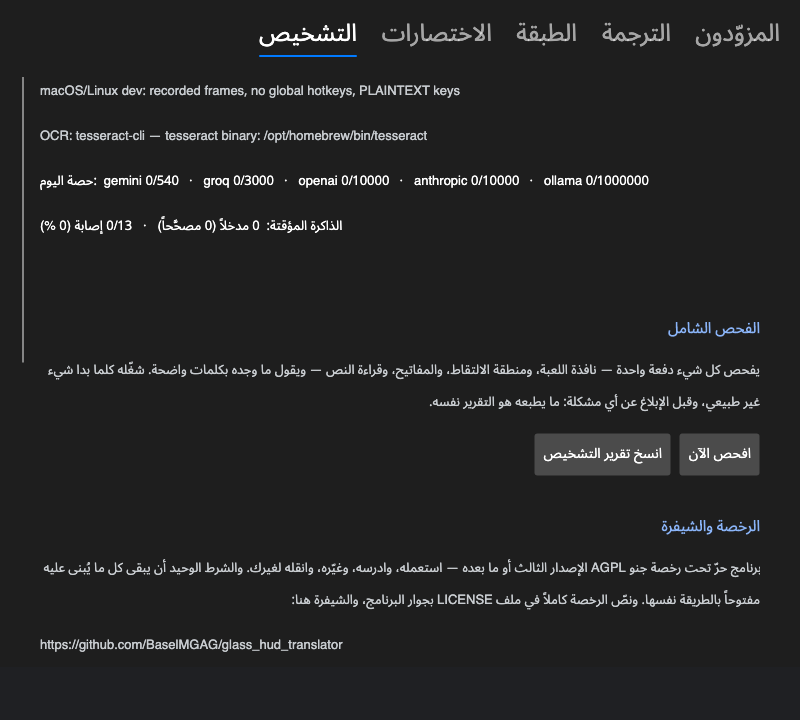
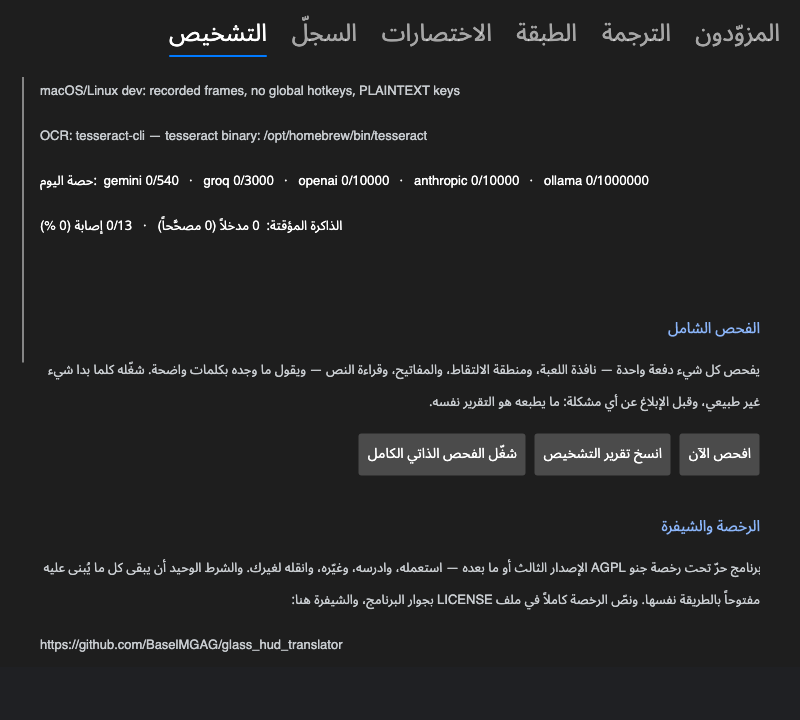
v0.8.0 — changelog, release notes, READMEs and fresh screenshots
The changelog entry is long because the release is: four separate faults
in automatic mode that presented as one symptom, two total capture
outages from one cause, and the "argue with a line" work that was sitting
in Unreleased since v0.7.0.

Every screenshot regenerated from the app's own rendering paths rather
than photographed - --ui-shots for the Settings tabs in both languages,
--toolbar-test for the strip. The History tab had never been in the
documentation at all, and it was writing itself out as settings-tab5.png
because the slug list had not grown with the window.

Changed region(s): [[0.4375, 0.5806, 0.6562, 0.6722], [0.2188, 0.0306, 0.4375, 0.0917]]

diff --git a/CHANGELOG.md b/CHANGELOG.md
@@ -3,11 +3,35 @@
 Notable changes. Started once the app was working end to end, so everything before the first entry
 is "the thing being described in the README".
 
-## Unreleased
+## v0.8.0 — 12 August 2026
 
-Doing something about a bad line, instead of watching it go past.
+Doing something about a bad line instead of watching it go past — and then a week of finding out
+that automatic mode had never really worked, in four different ways, none of which a test on this
+machine could see.
 
 ### Added
+
+- **A second reader, for text the first one cannot make out.** Off by default, and switching it on
+  is a deliberate choice rather than a convenience: it sends a *picture* of part of your screen to a
+  provider, where everything else this app sends is text that was already read on your own machine.
+  When it is on, a frame where words were plainly seen and none of them could be read gets a second
+  opinion from a model that can look at the image. It is asked only when the first reader threw
+  words away — never merely because it was unsure, which sounds like the same thing and is not: an
+  unusual name read *correctly* scores low, and routing exactly those to the reader that is worst at
+  invented vocabulary would be the wrong trade twice over.
+- **The second reading is checked against the first, and dropped if it disagrees too much.** The
+  danger with this kind of reader is specific and worth stating plainly: its mistake is a fluent,
+  well-formed sentence that was never on the screen, where an ordinary misreading is visible
+  nonsense. Fluent wrong Arabic is undetectable to somebody who cannot check it against the English,
+  and it would be saved forever. A genuine correction still looks like the garble it corrects; an
+  invention has no reason to.
+- **The app can now explain itself.** Settings → Diagnostics → *Write a self-test*. It writes a file
+  next to the app saying which windows are open, which one it decided is your game and why, where
+  the capture region landed, what it read there, and one line for every poll of the last two
+  minutes. It exists because the last three rounds of support were diagnosed by guessing, and every
+  question that could not be answered is now a line in it.
+
+### Added — from the "argue with a line" work
 
 - **Translate this line again.** `Ctrl+Shift+G`, the toolbar, or Settings → Translating. Asks for a
   fresh translation of the line on screen, ignoring the saved one — which is the whole point, since
@@ -33,6 +57,65 @@ Doing something about a bad line, instead of watching it go past.
 
 ### Fixed
 
+**Automatic mode, which had four separate faults and looked like one.** Reported as "auto translate
+does not switch to the next sentence", and every step of finding it was a reasonable-looking mistake.
+
+- **It could not tell a finished line from a moving background.** The test for "the text has stopped
+  changing" compared two thumbnails and allowed two cells of 1536 to differ. Measured against a real
+  scene with the sentence completely unchanged: mild foliage moves 3–6 cells, moderate motion 13–18,
+  heavy 46–58 — and one more revealed *word* moves 14–18. So over any game with weather, or an
+  idling character, or a sky, a finished line could never be *declared* finished. It could only run
+  out of time, and the deadline fires mid-animation, so what reached the reader was fragments. Every
+  frame in the project's own test images has a still background and measures exactly zero, which is
+  why every test passed.
+- **The fix could not be a bigger allowance either**, because a revealed word and a moving leaf cost
+  the same handful of cells. The pixels now decide only *when to look*; the words decide what to
+  translate, by being read twice and saying the same thing. That one test throws out a garbled
+  capture (which reads differently every time), throws out a half-typed line (which is a growing
+  prefix), and accepts a finished line whatever is moving behind it.
+- **Video mode then translated nothing at all**, because "the same thing" was set from a
+  measurement taken for a different question. Real subtitles agree with themselves 79–88% of the
+  time, not 90%. Fixed against readings taken off a real screen.
+- **Changing mode needed auto-watch switched off and on again.** New timings only took effect on the
+  next *change*, and the line on screen while you reach for the button is not a change — so the
+  switch appeared to do nothing. It now takes effect at once, without resetting the clock or the
+  request count the session limits are measured against.
+
+**Screen capture stopping for the rest of the session, twice, from the same cause.**
+
+- **Picking a capture region, or translating one thing once, killed capture until the app was
+  restarted.** Both took their own private grab of the screen and let go of it afterwards, which on
+  Windows means letting go of the one the app itself was still using. Nothing failed loudly: capture
+  simply returned nothing from then on, and the app went quiet. The same fault had already been
+  fixed once in the self-test and was written down as a rule; it is now enforced by a test, because
+  a rule in a comment is not a rule.
+- **A capture that fails now says which failure it was.** Three unrelated Windows errors used to
+  arrive as one silent nothing, and the only message the app could produce asked whether the game
+  was in borderless windowed mode — while the diagnostic on the same screen had already confirmed
+  that it was.
+
+**Everything else.**
+
+- **The History tab took the whole app down** the first time it was opened with enough rows to
+  scroll. Long lists recycle their rows, and the recycling handed the template an empty row.
+- **A garbled frame made the app translate the line before it.** Given something unreadable, the
+  model reached for one of the previous lines sitting in the same request as context and returned a
+  fluent, correct-looking Arabic sentence — so every translation on screen was one line behind. That
+  is far worse than showing nothing, because nothing is obviously nothing. The model is now told the
+  previous lines are the past and given a way to say "I cannot read this", and that answer is never
+  shown, never saved and never used as context.
+- **A dialogue box that closed and reopened on the same line showed nothing.** Two guards, each
+  individually right, suppressed it between them.
+- **Flipping between modes could run past every session limit the app has**, because the limit was
+  compared against the new mode's ceiling rather than the elapsed time. Found by a test written for
+  a different fix.
+- **Video mode's poll rate had never once run.** A hidden setting shipped with a value that was
+  written into every settings file the first time it was saved, and it silently overrode the mode.
+- **Automatic mode never said what it had decided.** It announced the switch to a status line inside
+  Settings, which nobody in a fullscreen game can see, and then nothing on screen answered the
+  question afterwards. It announces on the overlay now, and the toolbar button shows the reading —
+  the same dial, needle to the patient end or the fast end, so it stays visibly *automatic* rather
+  than pretending you chose.
 - A test-suite fault, not a user-facing one, but worth recording: safe mode's switch is a global,
   and the tests that read settings could run at the same moment as the test that turns it on — so a
   settings file written by one test came back empty to another. It had been possible since safe mode

diff --git a/docs/release-notes/v0.8.0.md b/docs/release-notes/v0.8.0.md
@@ -1,0 +1,100 @@
+## What's new in v0.8.0
+
+Two halves. The first is being able to argue with a line instead of watching it go past. The second
+is a week of discovering that automatic mode had never really worked — in four separate ways, none
+of which any test on the machine this is written on could see.
+
+**If a translation reads badly, ask again.** `Ctrl+Shift+G`, the toolbar, or Settings → Translating.
+It ignores the saved answer, which is the whole point, since the saved answer is the one you are
+trying to replace. It costs a request and the note beside the button says so.
+
+**If the app misread the English, fix the English.** Correct it in Settings → Translating and
+translate that instead. Pressing the button on an empty box fills it with what was actually read, so
+you correct a word rather than retyping a sentence — and a corrected line that the app has met
+before comes back free.
+
+**Lines you never want translated.** One per row in Settings → Translating. Anything matching is
+skipped *before* anything is sent, so it costs nothing at all. This is aimed at the case saving
+cannot help with: a button prompt or a HUD label that drifts into the capture region reads slightly
+differently every time, so every appearance used to be a fresh request.
+
+**A History tab.** Every line the app has translated, newest first, searchable by the English, the
+Arabic or the speaker. It has been recording this since v0.5.0 and nothing could read it. You can
+correct the Arabic and save it — which fixes that line everywhere it appears from then on, not just
+in the list — translate it again, or add it to the never-translate list.
+
+**A second reader, for text the first one cannot make out.** Off by default, and turning it on is a
+real choice rather than a convenience: it sends a *picture* of part of your screen to a provider,
+where everything else this app sends is text that was already read on your own machine. When it is
+on, a frame where words were plainly there and none of them could be read gets a second opinion from
+a model that can look at the image — and that reading is checked against the first one and thrown
+away if it disagrees too much. That check matters more than it sounds: this kind of reader fails by
+producing a fluent, believable sentence that was never on the screen, which is undetectable to
+somebody who cannot check it against the English.
+
+**The app can explain itself now.** Settings → Diagnostics → *Write a self-test*. It writes a file
+saying which windows are open, which one it decided is your game and why, where the capture region
+landed, what it read there, and one line for every poll of the last two minutes. If something is
+wrong, that file is what to send.
+
+---
+
+### Automatic mode
+
+Four faults, one symptom: "auto translate does not switch to the next sentence".
+
+**It could not tell a finished line from a moving background.** The app decided the text had stopped
+changing by comparing two small pictures of the screen and allowing almost no difference between
+them. Measured against a real scene, with the sentence completely unchanged: mild foliage moves 3–6
+cells of 1536 between one look and the next, moderate motion 13–18, heavy 46–58 — and one more
+revealed *word* moves 14–18. So in any game with weather, or an idling character, or a sky, a
+finished line could never be *declared* finished. It could only run out of patience, and that
+deadline lands mid-animation, so what reached the reader was fragments.
+
+Allowing more difference does not fix it, because a revealed word and a moving leaf cost the same.
+So the picture now decides only *when to look*, and the words decide what to translate — by being
+read twice and saying the same thing. That single test throws out an unreadable frame (which reads
+differently every time), throws out a half-typed line (which grows from the front), and accepts a
+finished line whatever is moving behind it.
+
+**Video mode then translated nothing at all**, because "the same thing" was set from a measurement
+taken for a different question. Real subtitles read a third of a second apart agree with themselves
+79–88% of the time, not 90%. Set from readings off a real screen now.
+
+**Changing mode needed switching auto-watch off and on again.** The new timings only took effect on
+the next change, and the line you are looking at while you reach for the button is not a change. It
+takes effect at once now, without resetting the clock or the request count your session limits are
+measured against.
+
+**It never said what it had decided.** The switch was announced to a status line inside Settings,
+which nobody inside a fullscreen game can see. It says so on the overlay now, and the toolbar button
+shows the reading — the same dial with the needle over to the patient end or the fast end, so it
+stays visibly *automatic* rather than pretending you chose.
+
+### Things that stopped working and now do not
+
+**Picking a capture region, or translating one thing once, used to kill screen capture until you
+restarted the app.** Both took their own private grab of the screen and let go of it afterwards,
+which on Windows means letting go of the one the app itself was still holding. Nothing failed
+loudly — capture just returned nothing from then on and the app went quiet.
+
+**A capture that fails now says which failure it was.** Three unrelated Windows errors used to
+arrive as one silent nothing, and the only thing the app could say was to ask whether your game was
+in borderless windowed mode — while the diagnostic on the same screen had already confirmed it was.
+
+**The History tab took the whole app down** the first time it was opened with enough rows to scroll.
+
+**An unreadable frame made the app translate the line before it.** Handed something it could not
+read, the model reached for one of the previous lines sitting alongside it and returned a fluent,
+correct-looking Arabic sentence — so everything on screen was one line behind. That is far worse
+than showing nothing, because nothing is obviously nothing. The model is now told those lines are
+the past, and given a way to say it cannot read this one; that answer is never shown, never saved
+and never carried forward.
+
+**A dialogue box that closed and reopened on the same line showed nothing.** Two guards, each
+individually right, suppressed it between them.
+
+**Flipping between modes could run past every session limit the app has.**
+
+**Video mode's poll rate had never once run** — a hidden setting shipped with a value that was
+written into every settings file the first time it saved, and it silently overrode the mode.

diff --git a/README.md b/README.md
@@ -268,6 +268,31 @@ than it can be translated, it says so rather than quietly skipping lines.
 it. That correction is pinned and beats the model for that line from then on. For a name that
 appears constantly, add it to your game's `glossary.json` instead.
 
+**Argue with a line instead of watching it go past.** If a translation reads badly, `Ctrl+Shift+G`
+asks again and ignores the saved answer — which is the point, since the saved answer is the one you
+want replaced. If the problem is further back and the app misread the *English*, correct it in
+Settings → **Translating** and translate that instead; pressing the button on an empty box fills it
+with what was actually read, so you fix a word rather than retype a sentence.
+
+**Lines you never want translated.** One per row in Settings → **Translating**. Anything matching is
+skipped before anything is sent, so it costs nothing at all. It is aimed at what saving cannot help
+with: a button prompt or a HUD label drifting into the capture region reads slightly differently
+every time, so every appearance was otherwise a fresh request.
+
+**Everything it has ever translated.** Settings → **History**, newest first, searchable by the
+English, the Arabic or the speaker. Correct the Arabic and save it and that line is fixed everywhere
+it appears from then on — not just in the list. You can also translate it again from here, or add it
+to the never-translate list, which is where that list gets the exact text from.
+
+**A second reader, when the first one cannot make the words out.** Settings → **Providers**, off by
+default. Turning it on is a real choice rather than a convenience: it sends a *picture* of part of
+your screen to a provider, where everything else this app sends is text that was already read on
+your own machine. When it is on, a frame where words were plainly there and none could be read gets
+a second opinion from a model that can look at the image — and that reading is compared against the
+first and thrown away if it disagrees too much. That check is the important half. This kind of
+reader fails by producing a fluent, believable sentence that was never on the screen, and fluent
+wrong Arabic is undetectable to the person this app is built for.
+
 **Nothing happening?** Settings → **Diagnostics** shows the quota used today, the cache hit rate,
 which OCR engine loaded, and a router log naming any provider or model that failed. Settings →
 **Providers** lists the lanes in the order they'll be tried and flags any with no key.
@@ -393,7 +418,8 @@ Early, but working.
 | More than one key per provider | **working** |
 | Diacritics on or off | **working** |
 | A limit on automatic mode | **working** |
-| Video subtitle mode | **working** — about half a second quicker per line since v0.7.0 |
+| Video subtitle mode | **working** — quicker per line since v0.7.0, and it stopped translating
+  nothing at all in v0.8.0 |
 | Recording the overlay | **working** — off by default, see Settings → Overlay |
 | Not paying twice for the same line misread | **working** |
 | The floating toolbar | **working** |
@@ -401,6 +427,12 @@ Early, but working.
 | Translate one thing once | **working** |
 | Moving the outline and panel by hand | **working** |
 | Working out dialogue from video by itself | **working**, not yet measured over a long film |
+| Asking again for a line that reads badly | **working** |
+| Correcting what was read, and re-translating it | **working** |
+| A never-translate list | **working** |
+| History of every line, searchable and correctable | **working** |
+| A second reader for text the first cannot make out | **working** — off by default, see Settings → Providers |
+| Writing a self-test you can send | **working** |
 | Click-through | not yet verified |
 
 Tested against **Final Fantasy XIV** and several other games on Windows across a long session:

diff --git a/README.masri.md b/README.masri.md
@@ -358,6 +358,31 @@
 
 ومفيش مفتاح مدفون في البرنامج — المفتاح بتاعك إنت، ومتخزّن على جهازك مشفّر بحساب ويندوز بتاعك.
 
+## لو الترجمة نفسها طلعت وحشة
+
+**اطلبها تاني.** `Ctrl + Shift + G`، أو من شريط الأزرار. بيطلب ترجمة جديدة ومش بيرجّعلك المحفوظة —
+وده هو المطلوب أصلاً، لإن المحفوظة هي اللي إنت عايز تغيّرها. بتكلّف طلب، والكلام اللي جنب الزرار
+بيقولك كده.
+
+**ولو هو أصلاً قرا الإنجليزي غلط؟** صلّح الإنجليزي بنفسك من **الإعدادات ← الترجمة** وخلّيه يترجم
+اللي إنت كتبته. ولو ضغطت الزرار والخانة فاضية هيملاهالك بالكلام اللي قراه فعلاً، فتصلّح كلمة بدل
+ما تكتب الجملة من الأول.
+
+**كلام إنت مش عايزه يتترجم خالص.** سطر في كل خانة، من **الإعدادات ← الترجمة**. أي كلام يطابقه
+البرنامج بيعديه من غير ما يبعت حاجة، يعني ما بيكلّفش ولا مليم. ده للحاجات زي كلام الأزرار أو أي
+لافتة في اللعبة بتدخل في المربع بتاعك — دي بتتقري كل مرة شكل، فكانت كل مرة تتحسب طلب جديد.
+
+**كل اللي اتترجم من أول يوم.** **الإعدادات ← السجل**، الأحدث الأول، وتقدر تدوّر بالإنجليزي أو
+بالعربي أو باسم اللي بيتكلم. صلّح العربي واحفظه، والسطر ده يبقى متصلّح في أي مكان يظهر فيه بعد
+كده — مش في القايمة بس.
+
+**قارئ تاني للكلام اللي الأول ما عرفش يقراه.** **الإعدادات ← المزوّدين**، وهو مطفي من الأول.
+تشغيله قرار مش مجرد تسهيل: لإنه بيبعت **صورة** من جزء من الشاشة بتاعتك، بينما أي حاجة تانية
+البرنامج بيبعتها بتبقى كلام اتقرا على جهازك إنت. ولو شغّلته، الشاشة اللي فيها كلام باين بس مش
+مقروء بياخد رأي تاني من موديل بيشوف الصورة — والقراءة دي بتتقارن باللي قبلها وبتترمي لو مختلفة
+أوي. والجزء ده هو المهم: الغلط في النوع ده من القرايا بيبقى جملة عربي حلوة ومظبوطة الشكل بس ما
+كانتش على الشاشة أصلاً، وده اللي محدش يقدر يكشفه.
+
 ## لو حصلت مشكلة
 
 **البرنامج نفسه مش راضي يفتح؟**

diff --git a/README.de.md b/README.de.md
@@ -410,6 +410,12 @@ Früh, aber es funktioniert.
 | Die schwebende Werkzeugleiste | geschrieben, unter Windows noch nicht gelaufen |
 | Der sichtbare Aufnahmerahmen | geschrieben, unter Windows noch nicht gelaufen |
 | Eine Sache einmal übersetzen | geschrieben, unter Windows noch nicht gelaufen |
+| Eine Zeile neu übersetzen lassen, wenn sie schlecht klingt | **funktioniert** |
+| Korrigieren, was gelesen wurde, und das übersetzen | **funktioniert** |
+| Liste von Zeilen, die nie übersetzt werden | **funktioniert** |
+| Verlauf aller übersetzten Zeilen, durchsuchbar und korrigierbar | **funktioniert** |
+| Zweiter Leser für Text, den der erste nicht entziffert | **funktioniert** — standardmäßig aus, siehe Einstellungen → Anbieter |
+| Selbsttest schreiben, den du verschicken kannst | **funktioniert** |
 | Klicks durch das Overlay hindurch | noch nicht geprüft |
 
 Getestet gegen **Final Fantasy XIV** und mehrere andere Spiele unter Windows über eine lange
